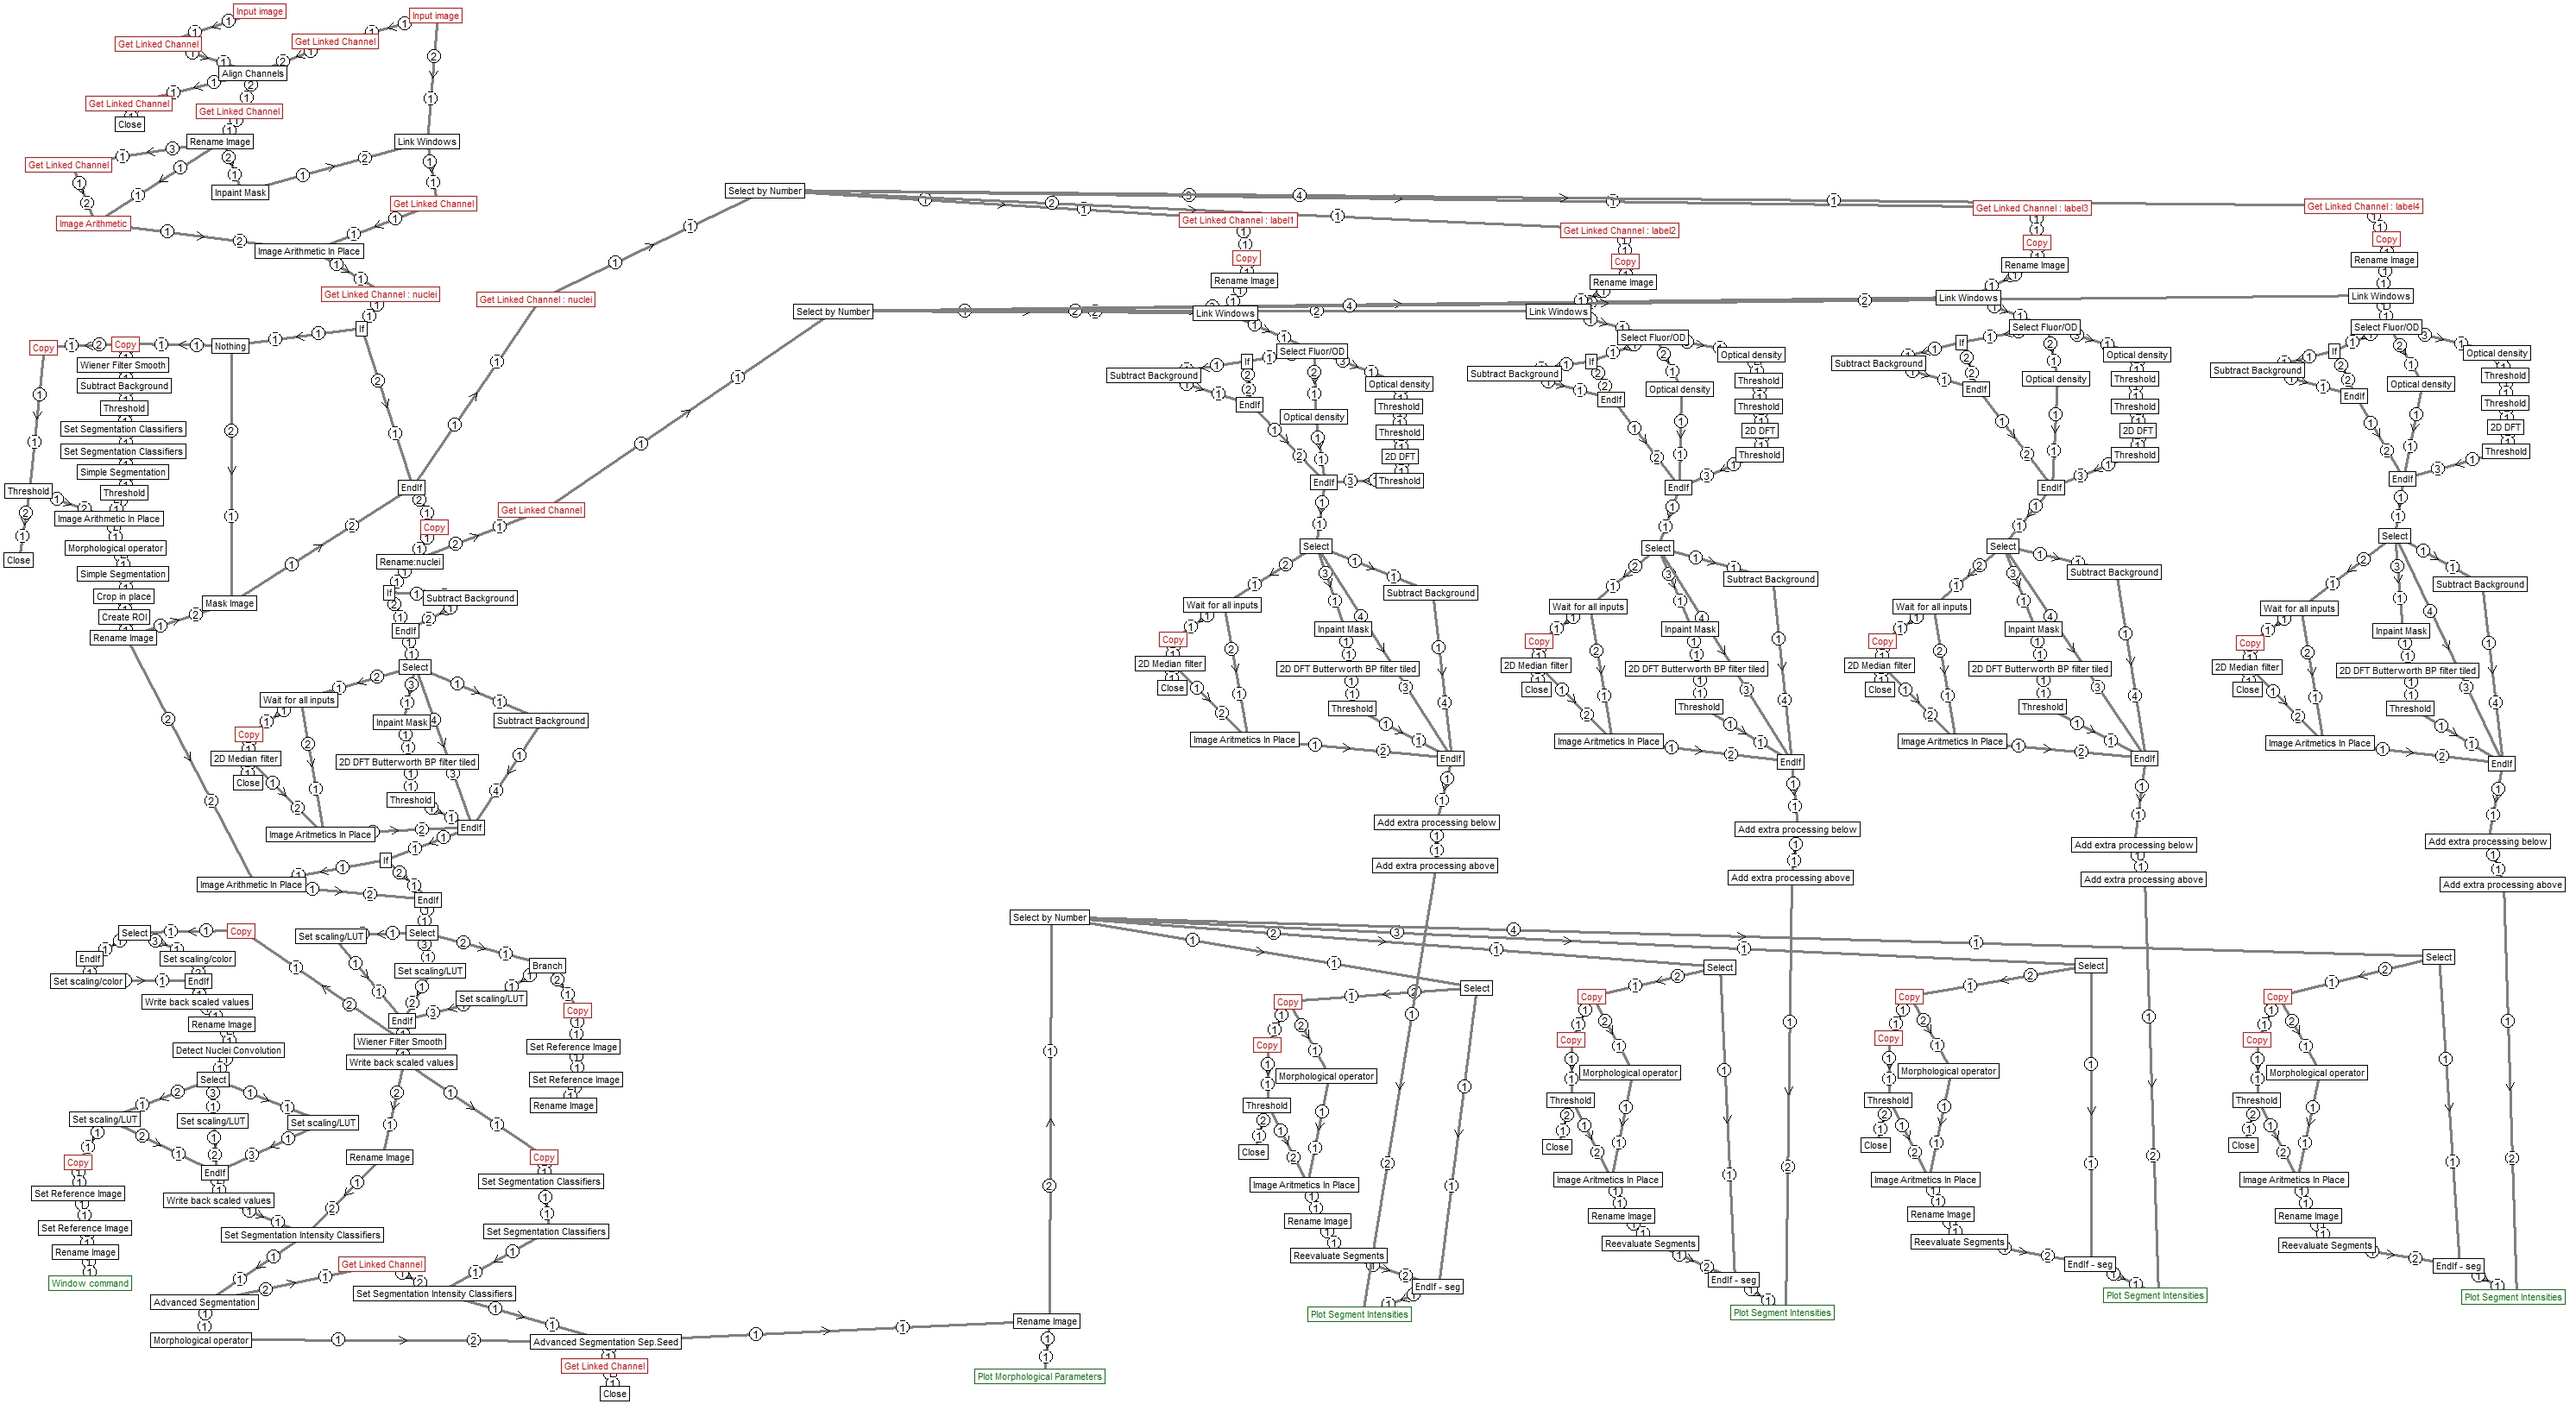
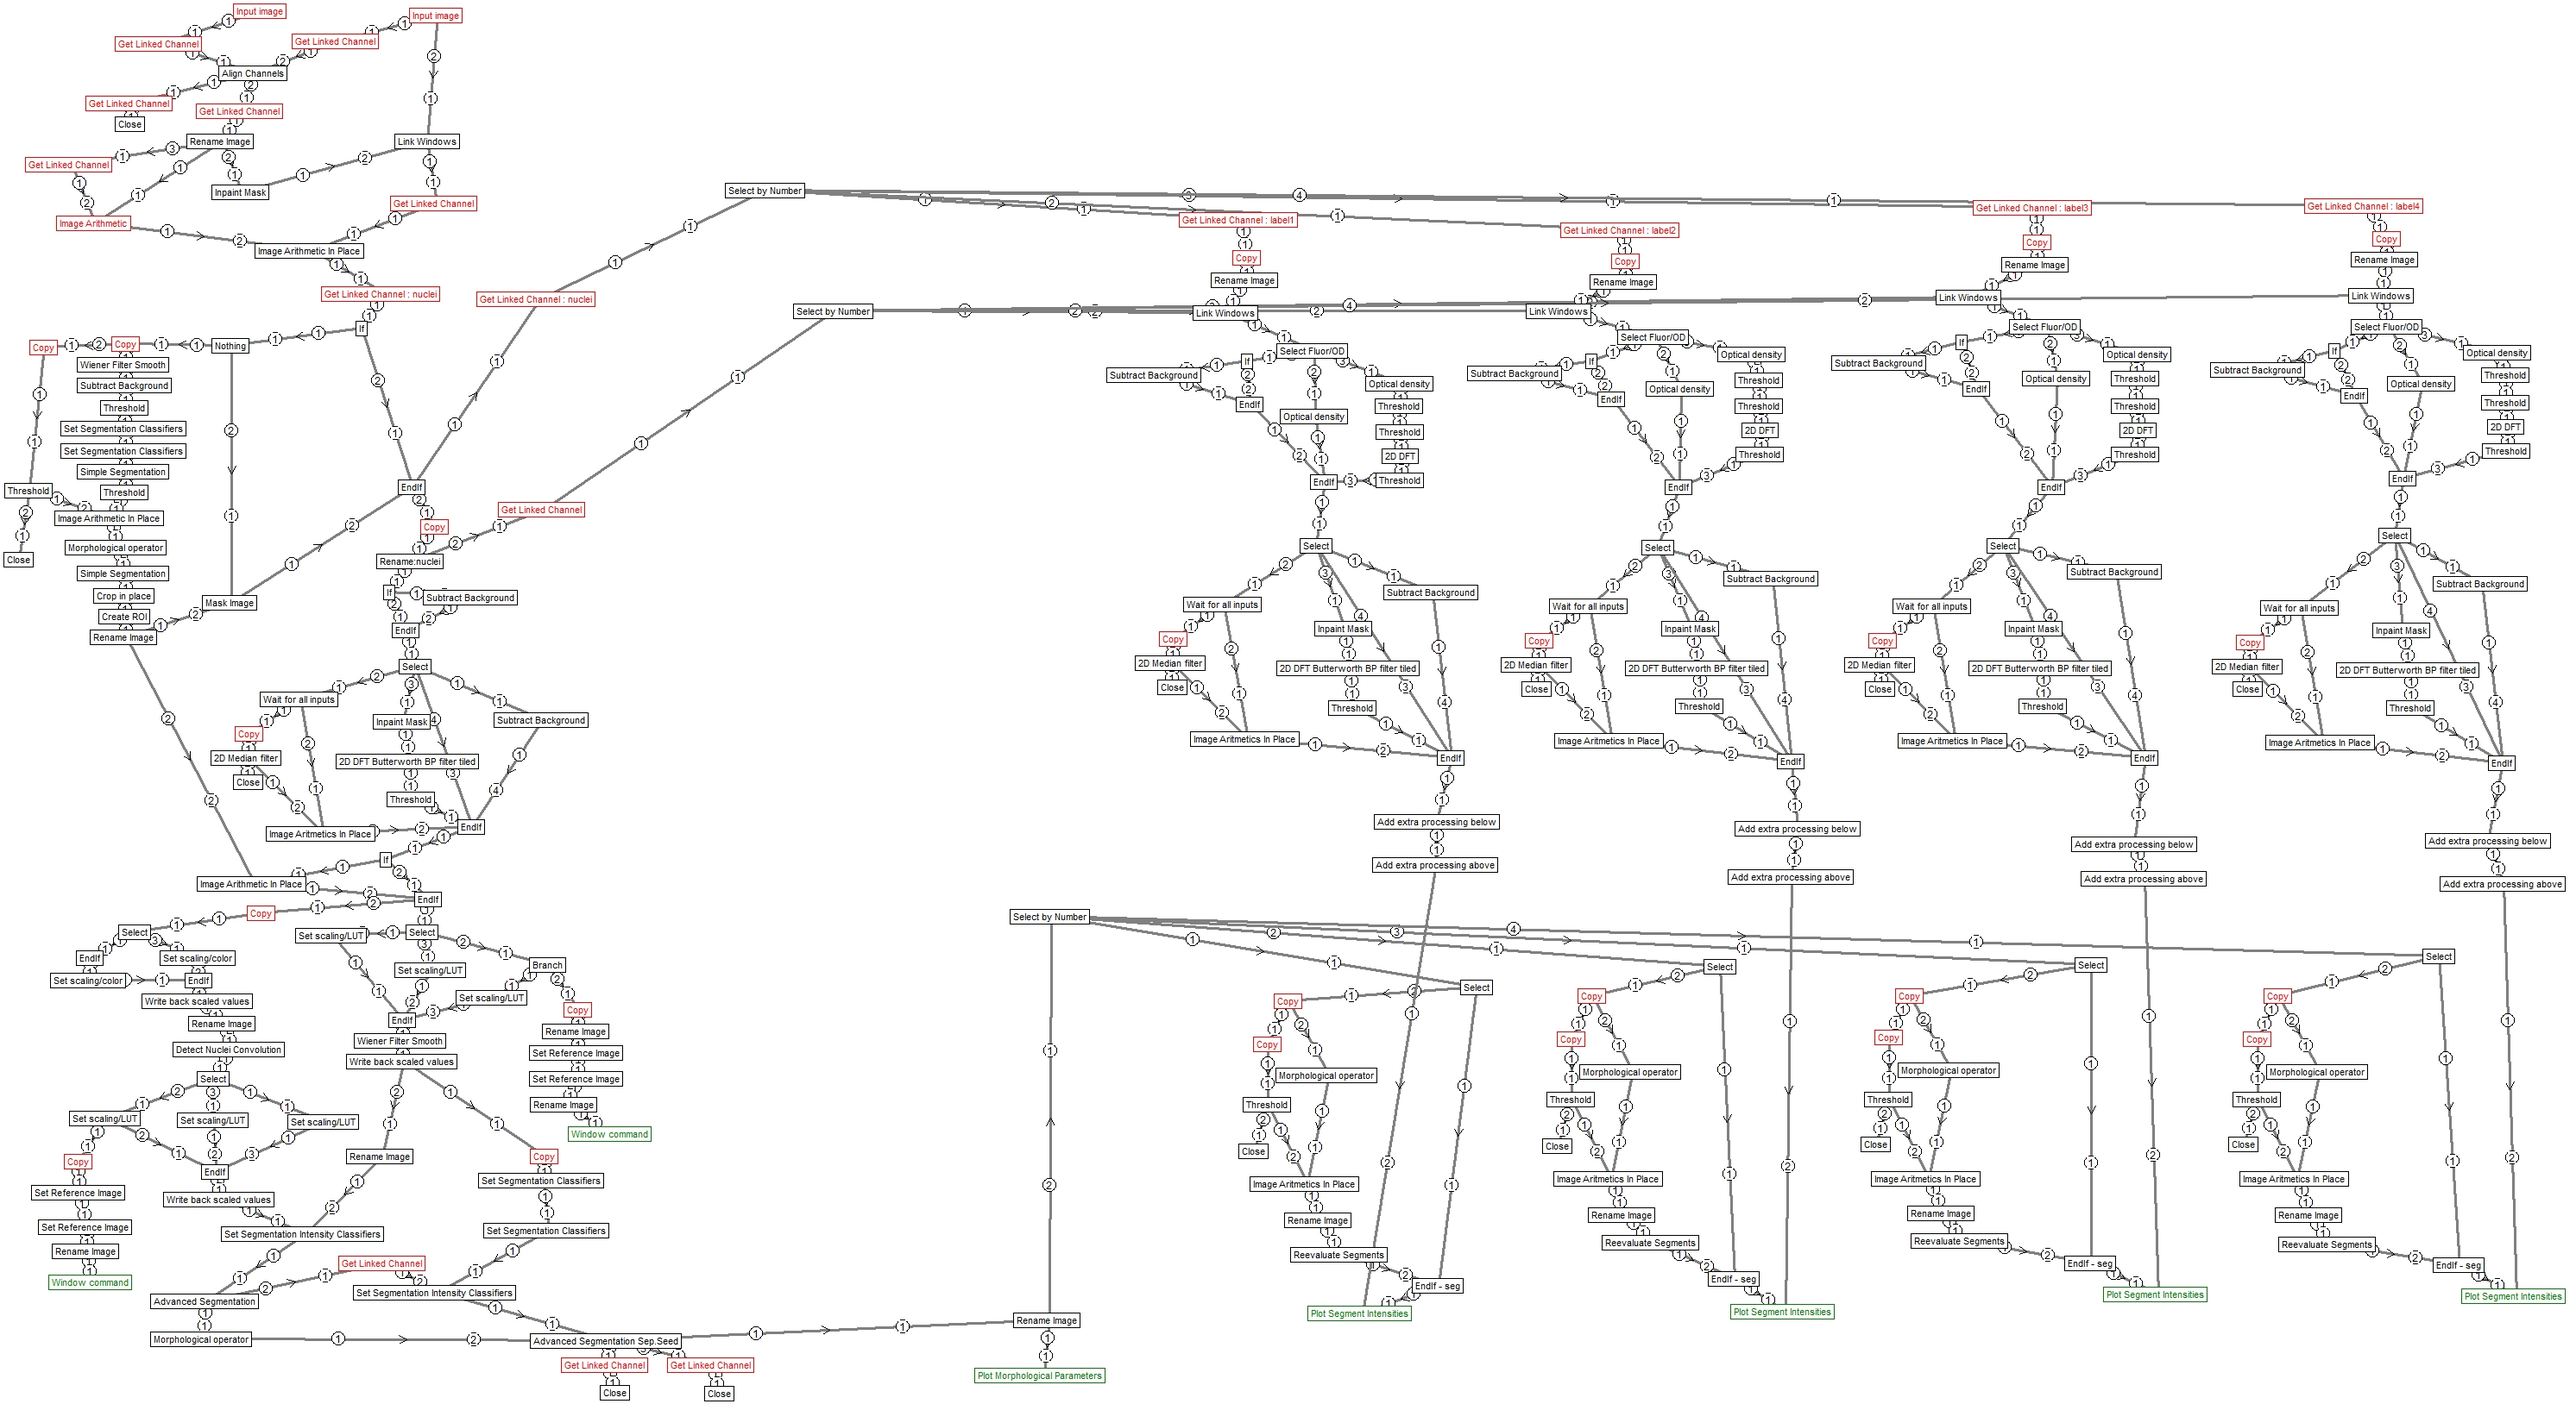
Fixed error in "Use reference image" operation for nucleus segmentation

diff --git a/README.md b/README.md
@@ -37,3 +37,11 @@ For standalone installation for data analysis only by FAST.R using R-Studio go t
 [Gerencser Lab on protocols.io](https://www.protocols.io/workspaces/gerencser-lab)  
 [Gerencser Lab at the Buck Institute for Research on Aging](https://www.buckinstitute.org/lab/gerencser-lab/)
 
+## List of pipelines
+* [Create BLANK reference image for multiwell plate using median](FAST_-_Create_BLANK_reference_image_for_multiwell_plate_using_median.md)
+* [Create background reference image(s) for multiwell plate using median of wells](FAST_-_Create_reference_image_for_multiwell_plate_using_median.md)
+* [FAST Analysis Pipeline - Basic](FAST_Analysis_Pipeline_-_basic.md)
+* [FAST Analysis Pipeline - Cellpose Segmentation](FAST_Analysis_Pipeline_-_Cellpose.md)
+* [Install FAST.R Shiny App](Install_FAST.R.md)
+* [FAST Analysis Pipeline - Basic - Modified for Live plus Fixed Merging](Other_pipelines_used_in_the_FAST_paper/Fluorescence_and_absorbance_histometry_using_nuclear_marker_(1-4_labels)_live_plus_fixed.md)
+* [Run FAST.R Shiny App](Run_FAST.R.md)

diff --git a/Other_pipelines_used_in_the_FAST_paper/Fluorescence_and_absorbance_histometry_using_nuclear_marker_(1-4_labels)_live_plus_fixed.md b/Other_pipelines_used_in_the_FAST_paper/Fluorescence_and_absorbance_histometry_using_nuclear_marker_(1-4_labels)_live_plus_fixed.md
@@ -77,6 +77,7 @@ V3: Added control on how Excel Data is recorded
       Added Histogram Range parameters for each label
 V4: ROIs are copied from original images, so ROIs may be drawn on the source images to gate the readout.
       Echa label can be named now.
+V5: Fixed error in "Use reference image" operation for nucleus segmentation.
 
 ## Parameters
 | # | Name | Type | Description |
@@ -152,5 +153,5 @@ V4: ROIs are copied from original images, so ROIs may be drawn on the source ima
 ## Structure
 ![structure](/img/Fluorescence_and_absorbance_histometry_using_nuclear_marker_(1-4_labels)_live_plus_fixed.jpg)
 
-[Image Analyst MKII](https://www.imageanalyst.net) pipeline - saved by V4.2.7 (build 923)
+[Image Analyst MKII](https://www.imageanalyst.net) pipeline - saved by V4.2.14 (build 976)
 

diff --git a/FAST_Analysis_Pipeline_-_basic.md b/FAST_Analysis_Pipeline_-_basic.md
@@ -78,6 +78,7 @@ V3: Added control on how Excel Data is recorded
       Added Histogram Range parameters for each label
 V4: ROIs are copied from original images, so ROIs may be drawn on the source images to gate the readout.
       Echa label can be named now.
+V5: Fixed error in "Use reference image" operation for nucleus segmentation
 
 ## Parameters
 | # | Name | Type | Description |
@@ -150,5 +151,5 @@ V4: ROIs are copied from original images, so ROIs may be drawn on the source ima
 ## Structure
 ![structure](/img/FAST_Analysis_Pipeline_-_basic.jpg)
 
-[Image Analyst MKII](https://www.imageanalyst.net) pipeline - saved by V4.2.7 (build 923)
+[Image Analyst MKII](https://www.imageanalyst.net) pipeline - saved by V4.2.14 (build 976)
 
